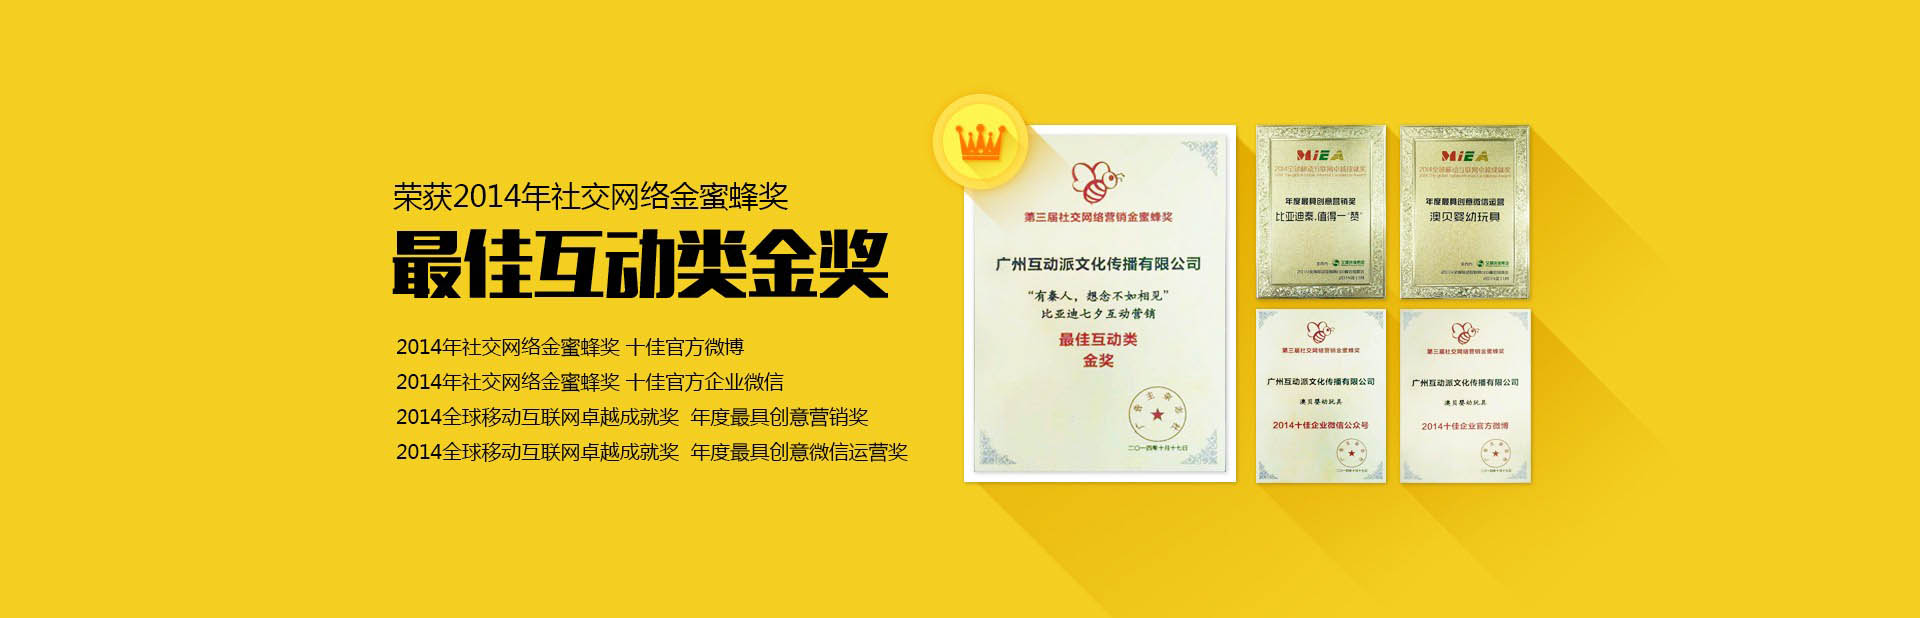
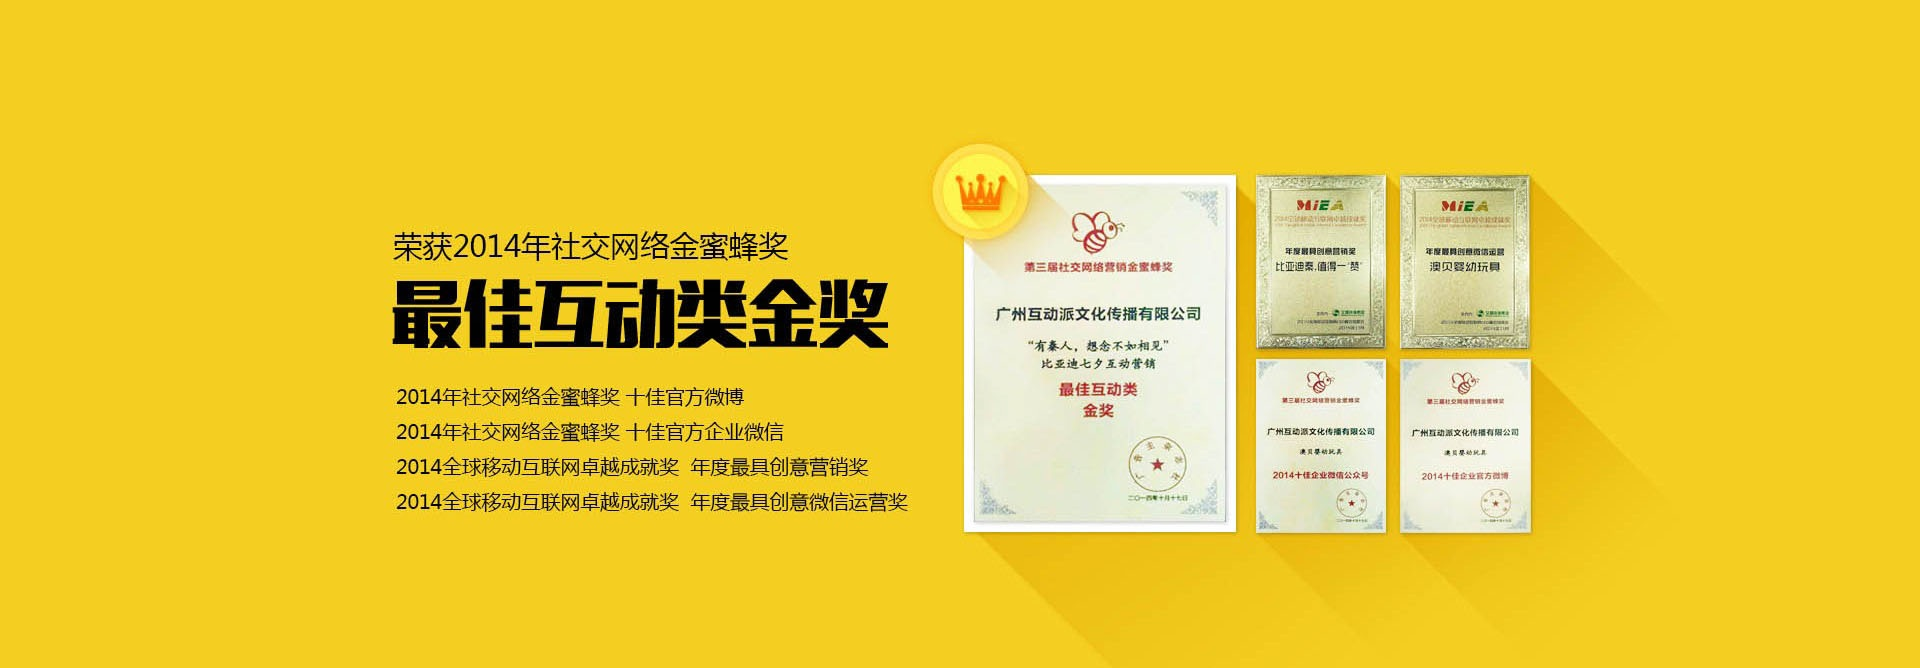
repair BUG

Changed region(s): [[0.1875, 0.1537, 0.8125, 0.7994]]

diff --git a/case.html b/case.html
@@ -79,6 +79,7 @@
 		<!-- sub_banner]] -->
 		
 		<!-- 三级导航[[ -->
+<!--
 		<div class="w w_max">
 		   <ul class="nav_t">
                 <li class="list"><a href="" class="mod_btn_lump link mod_btn_lump_hover">全部</a></li>
@@ -91,6 +92,7 @@
                 <li class="list"><a href="" class="mod_btn_lump link">O2O</a></li>
             </ul>
 		</div>
+-->
 		<!-- 三级导航]] -->
 		
 		<!-- 精选案例[[ -->
@@ -101,6 +103,16 @@
 	                <span class="color_lump"></span>
                 </div>
                 <div class="sub_title">互动派为数十家大中型企业提供社会化整体营销服务我们精选部分案例供大家分享。</div>
+                <ul class="nav_t">
+                    <li class="list"><a href="" class="mod_btn_lump link mod_btn_lump_hover">全部</a></li>
+                    <li class="list"><a href="" class="mod_btn_lump link">汽车</a></li>
+                    <li class="list"><a href="" class="mod_btn_lump link">家电</a></li>
+                    <li class="list"><a href="" class="mod_btn_lump link">母婴</a></li>
+                    <li class="list"><a href="" class="mod_btn_lump link">食品</a></li>
+                    <li class="list"><a href="" class="mod_btn_lump link">医药</a></li>
+                    <li class="list"><a href="" class="mod_btn_lump link">IT</a></li>
+                    <li class="list"><a href="" class="mod_btn_lump link">O2O</a></li>
+                </ul>
                 
                 <div class="mod_wrap_content content">
                     <ul class="mod_wrap_content mod_lists ext_lists_article clearFix content">

diff --git a/js/common.js b/js/common.js
@@ -36,9 +36,9 @@ function addFavorite() {
 function slide(ID,transitionTime,time){
     // ID='bannerIndex';
 
-    if (!isObj(transitionTime)) {
-        var transitionTime=5000;
-    };
+    // if (!isObj(transitionTime)) {
+    //     var transitionTime=5000;
+    // };
     
     var wrap=$("#"+ID);
     var imgs=wrap.children(".imgs");
@@ -63,7 +63,6 @@ function slide(ID,transitionTime,time){
             left: -i * 100 + '%'
         }, transitionTime)
 
-        // var eNavLi.children(".list")
         eNavLi.removeClass('hover');
         $(eNavLi[i]).addClass('hover');
 
@@ -95,26 +94,10 @@ function slide(ID,transitionTime,time){
         transitionTime:transitionTime
     }
     eNavLi.click(obj,btnNav);
-    // btnNav(eNavLi,ID,imgs,transitionTime);
 
     setInterval(function(){
         delay(imgs,eNavLi,transitionTime,imgL);
     },time);
-
-
-    // var x=wrap.html();
-    // csoleBug(Imgs.html());
-
-    // var x='SLIDE.INDEX.'+ID=0;
-    
-    
-    // if (ID=="W") {
-        // GLOBAL.SLIDE.INDEX.ID=GLOBAL.SLIDE.INDEX.ID+2;
-        // console.log('我是W')
-    // };
-
-    // csoleBug(GLOBAL.SLIDE.INDEX.ID);
-
 }
 
 /* @end **/

diff --git a/aboutHistory.html b/aboutHistory.html
@@ -342,9 +342,9 @@
         <!-- 返回顶部]] -->
 
        
-<!--        <script src="http://libs.baidu.com/jquery/1.10.2/jquery.min.js"></script>-->
+        <script src="http://libs.baidu.com/jquery/1.10.2/jquery.min.js"></script>
 <!--        <script src="http://libs.baidu.com/jqueryui/1.10.2/jquery-ui.min.js "></script>-->
-        <script src="js/lib/jquery.1.10.2.min.js"></script>
+        <!-- <script src="js/lib/jquery.1.10.2.min.js"></script> -->
         <script src="js/base.js"></script>
         <script src="js/common.js"></script>
         <script src="js/page.js"></script>

diff --git a/solution.html b/solution.html
@@ -387,7 +387,7 @@
 
        
         <script src="http://libs.baidu.com/jquery/1.10.2/jquery.min.js"></script>
-<!--        <script src="http://libs.baidu.com/jqueryui/1.10.2/jquery-ui.min.js "></script>-->
+        <!-- <script src="http://libs.baidu.com/jqueryui/1.10.2/jquery-ui.min.js "></script> -->
         
         <script src="js/base.js"></script>
         <script src="js/common.js"></script>

diff --git a/css/page.css b/css/page.css
@@ -819,7 +819,7 @@
 
 .nav_t{
 	/*font-size: 10px;*/
-	padding: 0px 5.57142857142857%;
+	padding: 20px 5.57142857142857%;
 }
 .nav_t .list{
 	display: inline-block;
@@ -1007,7 +1007,6 @@
 	margin: auto;*/
 	position: relative;
 	z-index: 1;
-
 }
 
 
